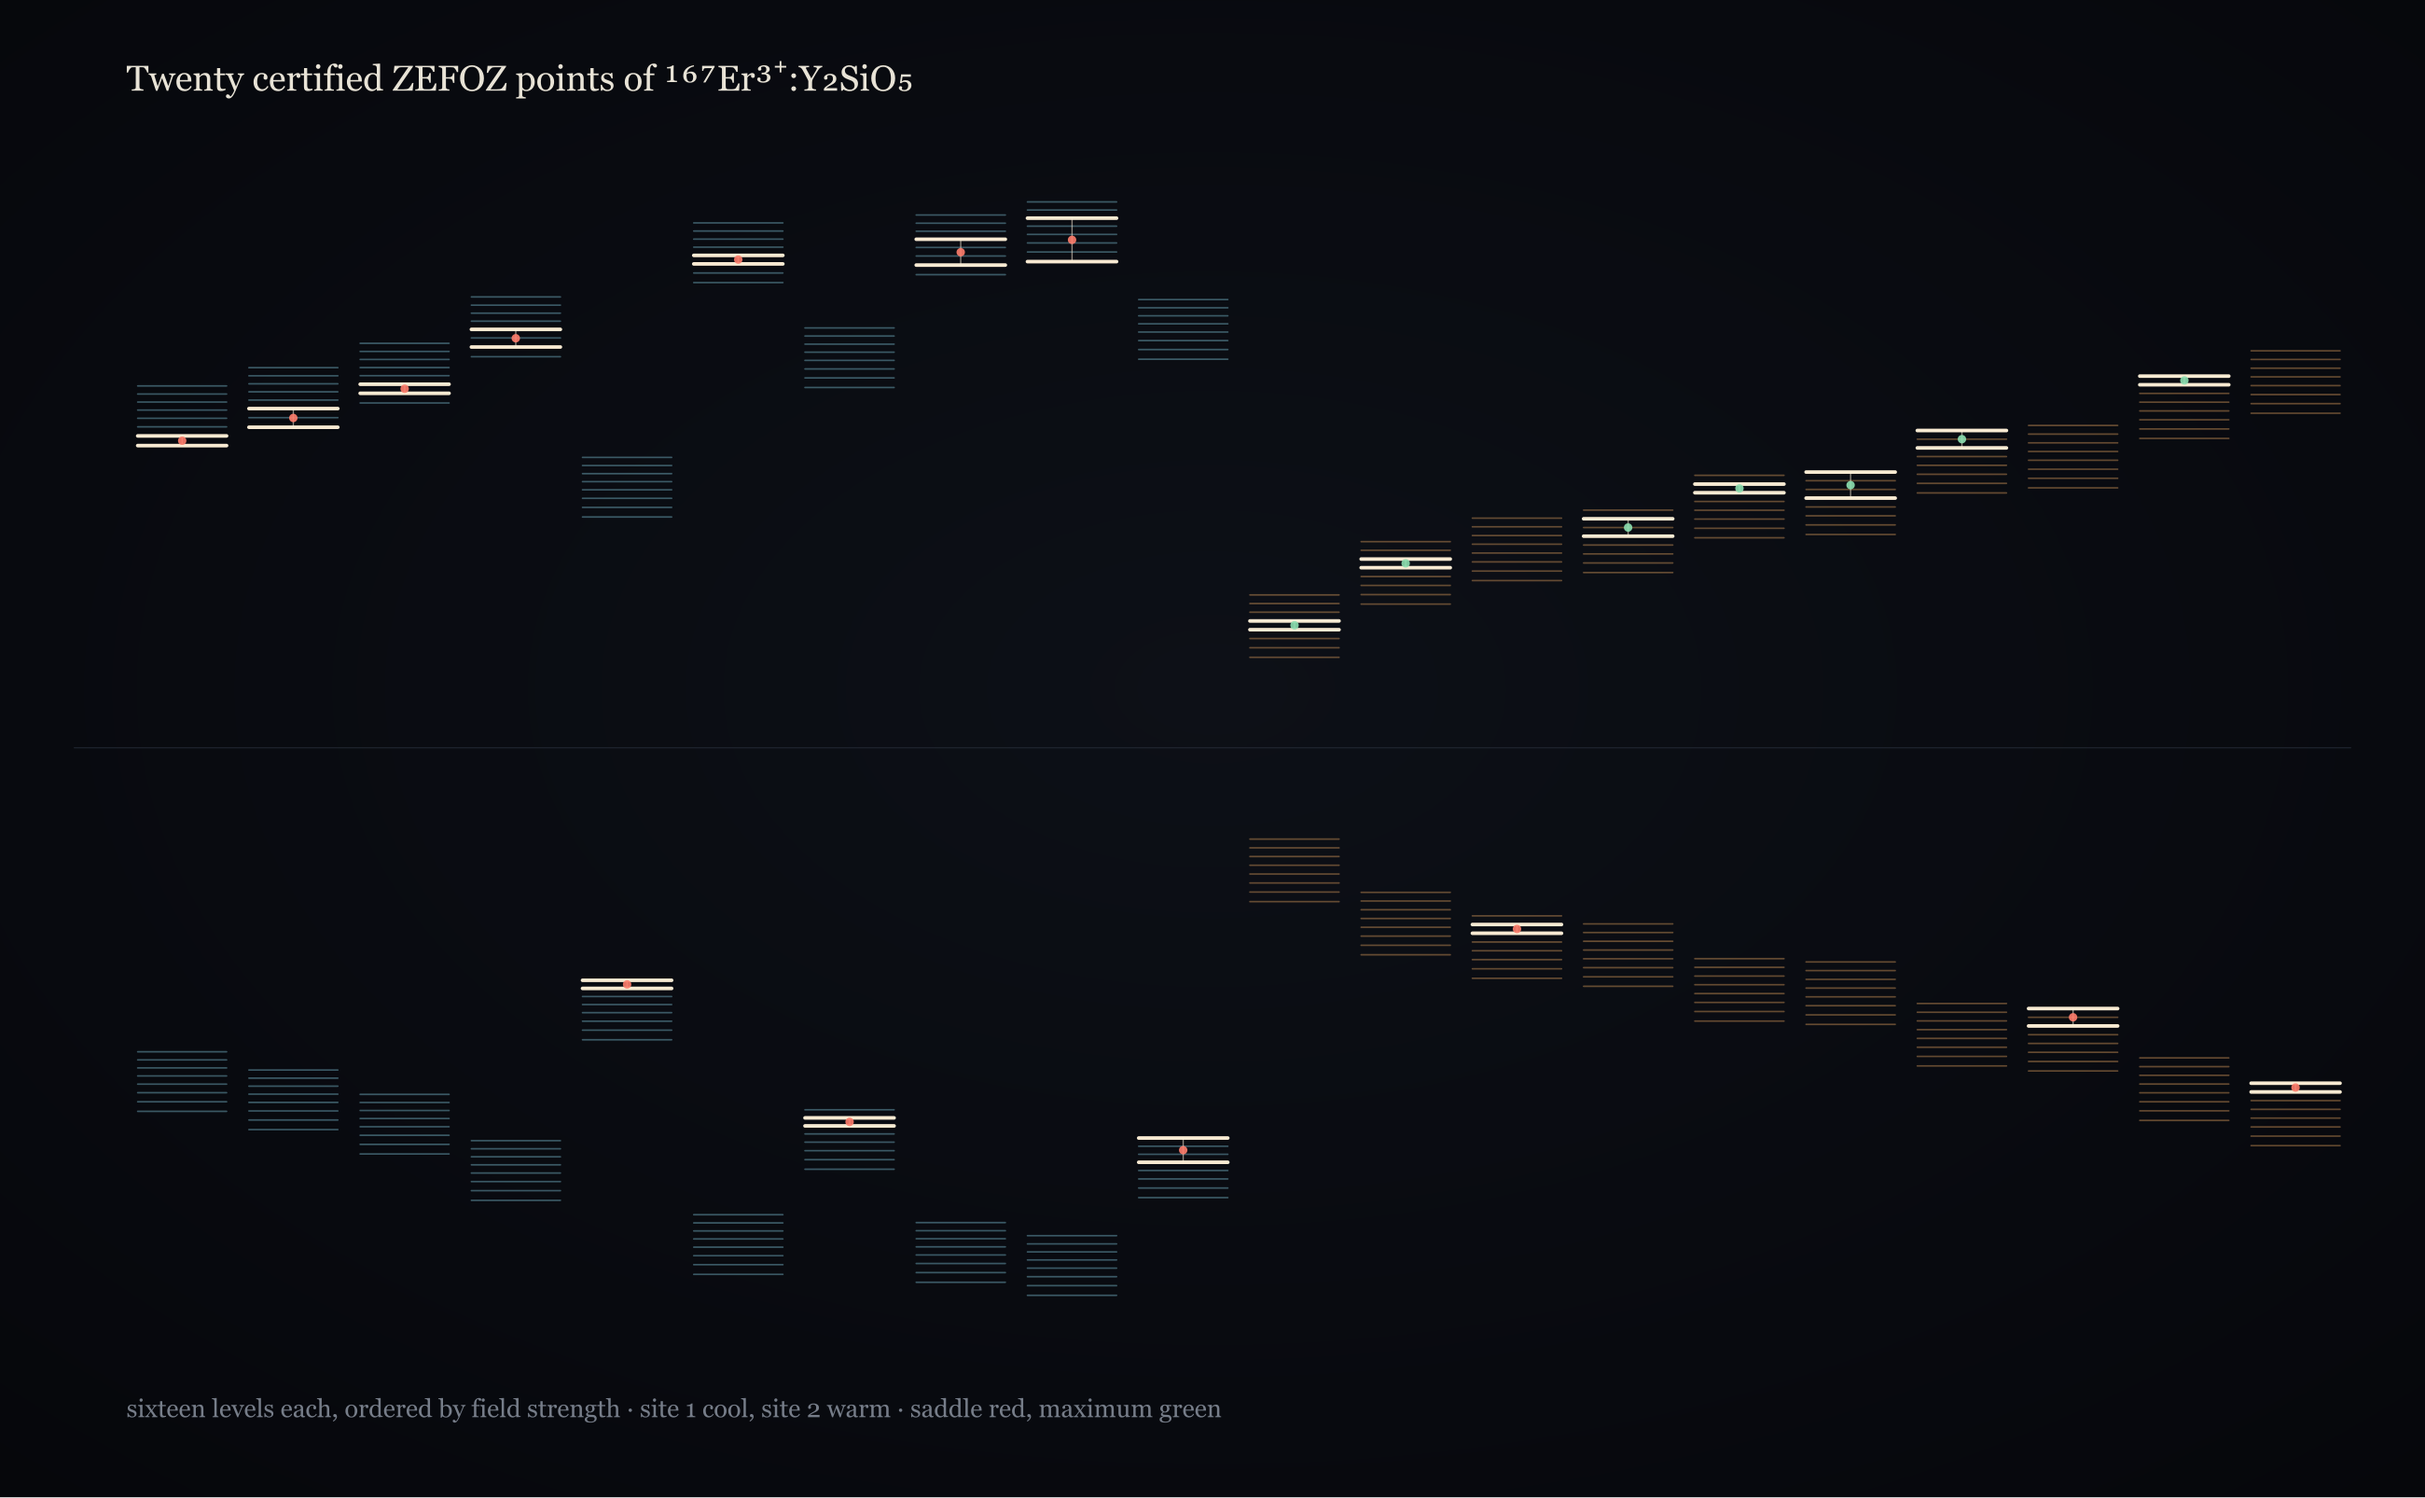
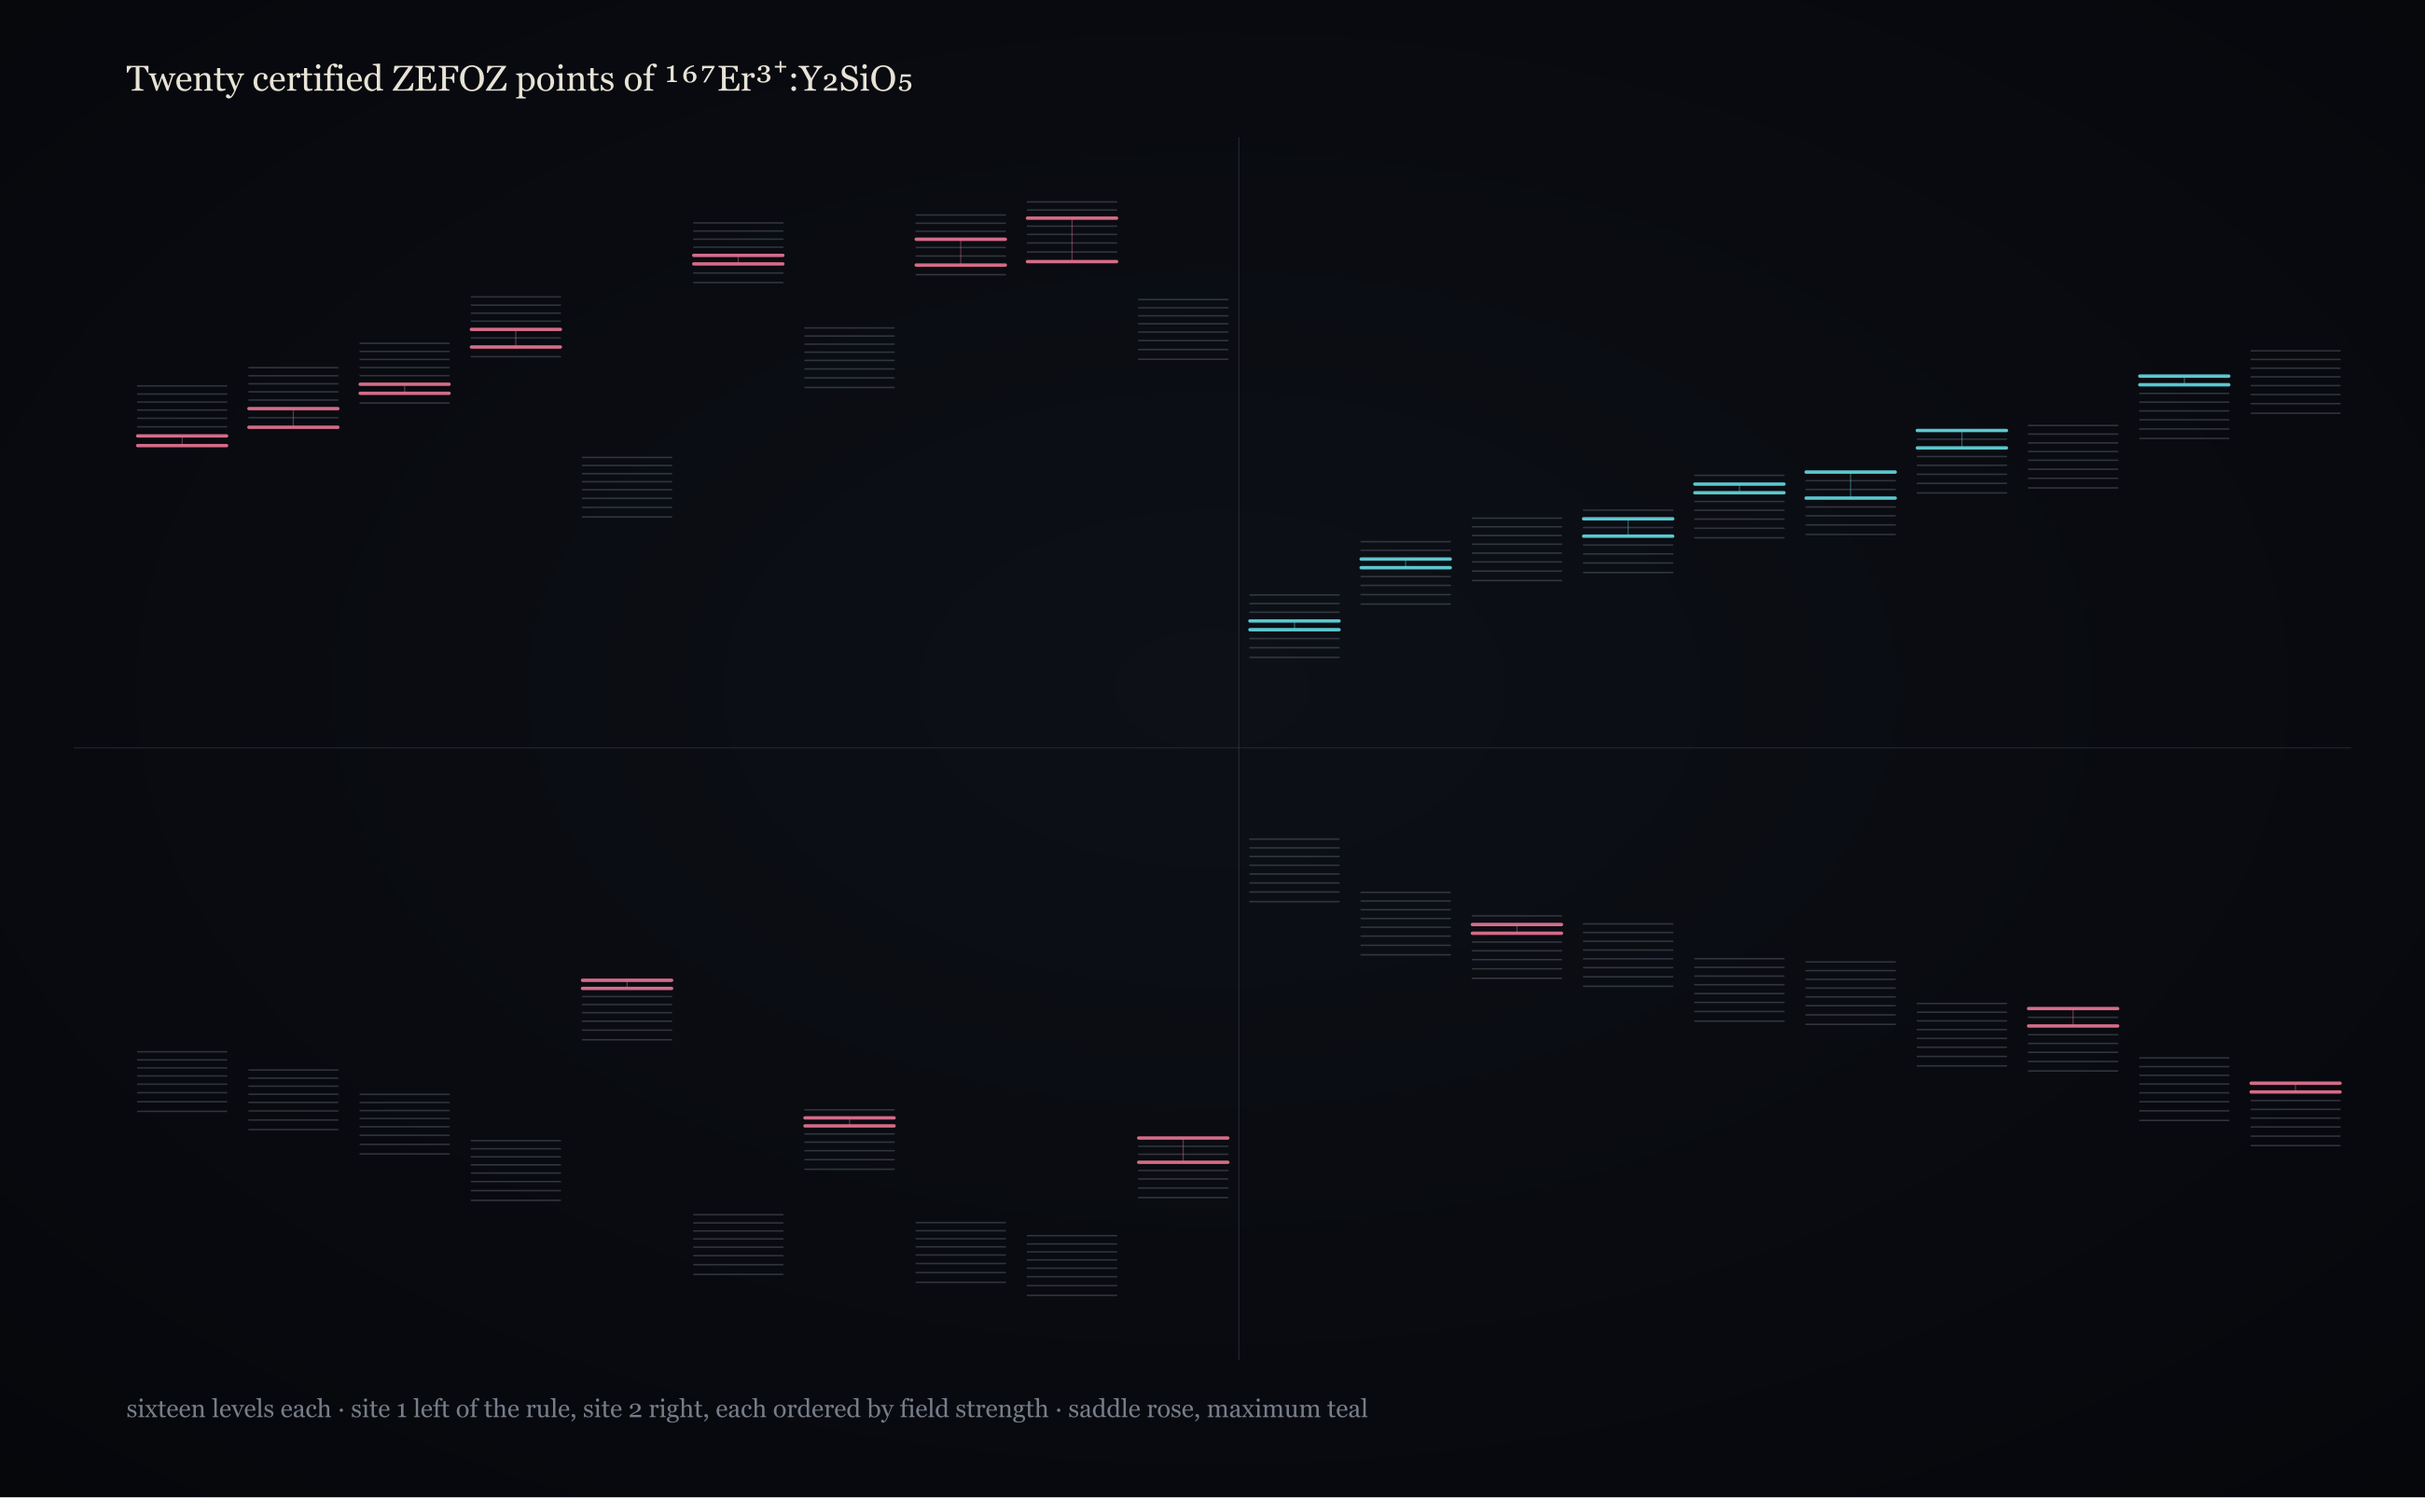
levels: one meaningful hue, matching the curvature piece
Red and green carried no meaning the data has -- a saddle is not worse than
a maximum -- and it is the worst pair to reach for on legibility grounds.
Four hues were competing for three encodings, and none of it agreed with
curvature.py, which draws these same twenty objects with rose for saddles and
teal for maxima.

Now the sixteen levels are neutral, colour marks only whether the point is a
saddle or a maximum, and it follows the sibling piece's convention. Site is
shown by position: a faint rule where site 1 ends and site 2 begins, each
group still ordered by field strength.

diff --git a/src/levels.py b/src/levels.py
@@ -25,8 +25,9 @@ published atlas is a nuclear transition within one electron manifold, which is r
 straight off the certificate and is why these are the long-lived ones.
 
 The fields are exact rationals in millitesla and are not small, from 191 to 2,475. Columns are
-ordered by field strength, which is why the ladders drift. Site 1 is drawn cool and site 2
-warm. Thirteen of the twenty are saddles of the transition frequency and seven are maxima;
+ordered by field strength, which is why the ladders drift. The rule separates site 1 from site 2. Colour carries
+one thing only, whether the point is a saddle of the transition frequency or a maximum, and it
+follows the convention of the curvature piece, which draws these same twenty objects. Thirteen of the twenty are saddles of the transition frequency and seven are maxima;
 none is a minimum, which is a result of the same certificate and not an assumption.
 
 doi:10.5281/zenodo.21898996
@@ -78,30 +79,34 @@ def svg():
     o.append('<line x1="70" y1="%.1f" x2="%d" y2="%.1f" stroke="#252c37" stroke-width="1" '
              'opacity="0.8"/>' % (Y(0), W - 70, Y(0)))          # zero of energy
 
+    for k in range(1, n):                       # where site 1 ends and site 2 begins
+        if P[k]["site"] != P[k - 1]["site"]:
+            x = 120 + step * k
+            o.append('<line x1="%.1f" y1="%d" x2="%.1f" y2="%d" stroke="#2a3240" '
+                     'stroke-width="1" opacity="0.75"/>' % (x, TOP - 20, x, BOT + 20))
+
     for k, r in enumerate(P):
         cx = 120 + step * (k + 0.5)
-        cool = r["site"] == 1
-        base = "#7fc4d8" if cool else "#e0a05e"
         sad = "+" in r["sig"]
+        # the only hue that means anything: saddle or maximum, matching curvature.py,
+        # which draws these same twenty points. Everything else is neutral.
+        hue = "#e0708e" if sad else "#5fd0d8"
         for idx, (e, _) in enumerate(r["levels"]):
             on = idx in (r["i"], r["j"])
             o.append('<line x1="%.1f" y1="%.1f" x2="%.1f" y2="%.1f" stroke="%s" '
                      'stroke-width="%.1f" opacity="%.2f" stroke-linecap="round"/>'
                      % (cx - half, Y(e), cx + half, Y(e),
-                        "#fff1d8" if on else base, 3.4 if on else 1.5, 0.97 if on else 0.42))
+                        hue if on else "#7b8494", 3.2 if on else 1.4, 0.95 if on else 0.34))
         ei, ej = r["levels"][r["i"]][0], r["levels"][r["j"]][0]
-        o.append('<line x1="%.1f" y1="%.1f" x2="%.1f" y2="%.1f" stroke="#fff1d8" '
-                 'stroke-width="1.2" opacity="0.55"/>' % (cx, Y(ei), cx, Y(ej)))
-        # a saddle of the transition frequency, or a maximum
-        o.append('<circle cx="%.1f" cy="%.1f" r="4.0" fill="%s" opacity="0.9"/>'
-                 % (cx, Y((ei + ej) / 2), "#ff7d6b" if sad else "#8de0b0"))
+        o.append('<line x1="%.1f" y1="%.1f" x2="%.1f" y2="%.1f" stroke="%s" '
+                 'stroke-width="1.1" opacity="0.42"/>' % (cx, Y(ei), cx, Y(ej), hue))
 
     o.append('<text x="120" y="86" font-family="Georgia,serif" font-size="34" fill="#e8e3d6">'
              'Twenty certified ZEFOZ points of ¹⁶⁷Er³⁺:Y₂SiO₅'
              '</text>')
     o.append('<text x="120" y="%d" font-family="Georgia,serif" font-size="24" fill="#767d89">'
-             'sixteen levels each, ordered by field strength &#183; site 1 cool, site 2 warm '
-             '&#183; saddle red, maximum green</text>' % (H - 76))
+             'sixteen levels each &#183; site 1 left of the rule, site 2 right, each ordered by '
+             'field strength &#183; saddle rose, maximum teal</text>' % (H - 76))
     o.append("</svg>")
     return "".join(o), P
 
